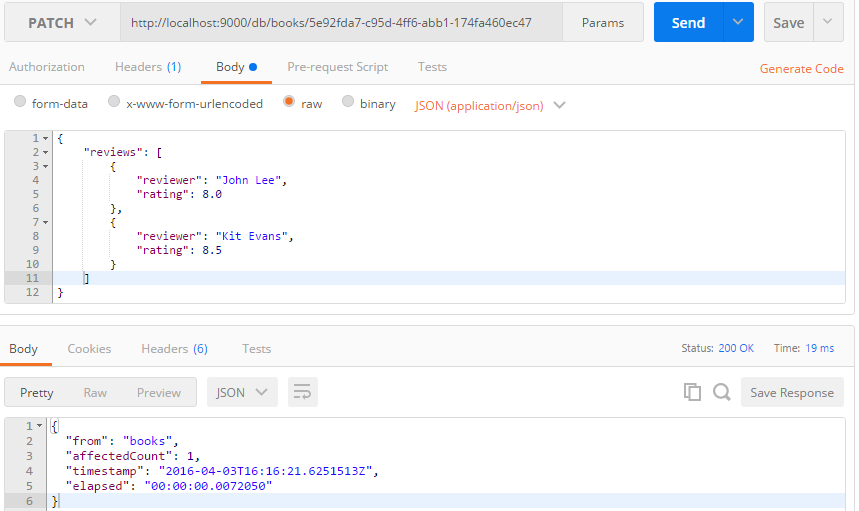
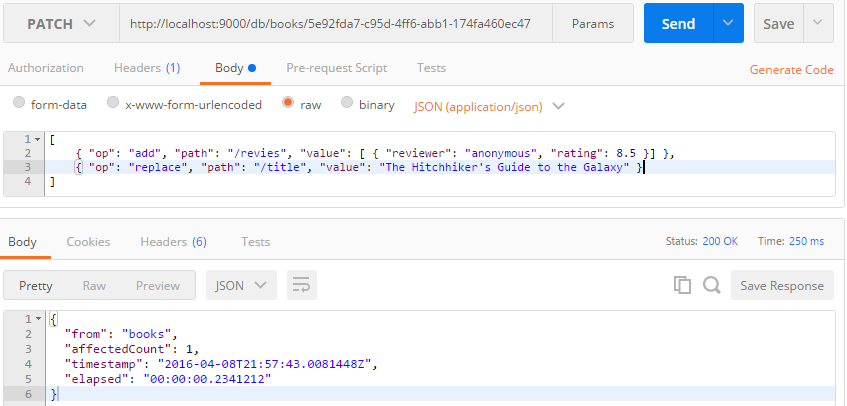
.

diff --git a/_posts/2016-01-04-rest-api.md b/_posts/2016-01-04-rest-api.md
@@ -7,13 +7,14 @@ fa-icon: codepen
 
 # **it's got an easy to use REST API**
 
-- To insert new JSON Content (i.e. Document), use the `POST /db/{collection}` endpoint. ExpandoDB will auto-create the target Content Collection if it doesn't exist.  
+- To insert new Content (i.e. Document), use the `POST /db/{collection}` endpoint. ExpandoDB will auto-create the target Content Collection if it doesn't exist.  
   ![Post Spec](img/post-spec.png)
 - To find out about the schema of a specific Content Collection, use the `GET /db/_schemas/{collection}` endpoint.  
   ![Get Schema](img/get-schema.PNG)
 - To find out what Content Collections are in the Database and what their schemas are, use the `GET /db/_schemas` endpoint.
   ![Get Schemas](img/get-schemas.png)    
-- To search a Content Collection, use the `GET /db/{collection}` endpoint.  
+- To search a Content Collection, use the `GET /db/{collection}` endpoint. This is the API endpoint you'll be using the most,
+  so do take time to read the documentation below.
   ![Search Collection](img/search-collection.png)
 - To count items in a Content Collection, use the `GET /db/{collection}/count` endpoint.  
   ![Get Collection Count](img/get-collection-count.png)
@@ -22,11 +23,11 @@ fa-icon: codepen
 - To update an existing JSON Content, use the `PUT /db/{collection}/{id}` endpoint. The JSON Content that you send will 
   replace the existing one.
   ![Put Content](img/put-collection.png)
-- To partially update an existing JSON Content, use the `PATCH /db/{collection}/{id}` endpoint. This endpoint implements
+- To partially update an existing Content, use the `PATCH /db/{collection}/{id}` endpoint. This endpoint implements
   the **JSON-Patch** standard defined in [**RFC6902**](https://tools.ietf.org/html/rfc6902). Note that ExpandoDB only supports
   the following **PATCH** operations: **add**, **remove**, and **replace**.
   ![Patch Content](img/patch-collection.png)  
-- To remove an existing JSON Content, use the `DELETE /db/{collection}/{id}` endpoint.
+- To remove an existing Content, use the `DELETE /db/{collection}/{id}` endpoint.
   ![Delete Content](img/delete-collection.png) 
 - To remove an entire Content Collection, use the `DELETE /db/{collection}` endpoint.
   ![Drop Collection](img/drop-collection.png) 

diff --git a/_posts/2016-01-05-show-me.md b/_posts/2016-01-05-show-me.md
@@ -37,6 +37,7 @@ fa-icon: list-ol
   supported is 2 (the default).
   ![Howto Search Fuzzy](img/howto-search-4.png) 
 - Finally let's search for news articles with no title. ExpandoDB uses a special token to denote missing (i.e. null) values: **\_null\_**. 
+  The token can be modified in the application config file.
   ![Howto Search Null](img/howto-search-5.png)
 - See [this article](http://www.lucenetutorial.com/lucene-query-syntax.html) to learn more about the query syntax.  
   
@@ -46,6 +47,11 @@ fa-icon: list-ol
   ![Howto Update Replace](img/howto-update-1.png)
 - Let's check if the book was updated.
   ![Howto Update Replace - Result](img/howto-update-2.png)
+- Now let's make a few changes to our book Content. Let's add a new array field called **reviews**. In addition, let's update
+  the **title** field and remove the word UPDATED from it. We do both of these modifications using the PATCH API.
+  ![Howto Update Patch](img/howto-update-3.png)
+- Let's see if the book was updated.
+  ![Howto Update Patch - Result](img/howto-update-4.png)
   
 {: .left}
 ### **...delete existing Content?**
@@ -64,5 +70,18 @@ fa-icon: list-ol
 
 {: .left}
 ### **...see what Content Collections are available in the Database, and what their fields are?** 
-- Simply send a GET request to the **/db/_schemas** endpoint.
+- Simply send a GET request to the **/db/_schemas** endpoint. 
   ![Howto Get Schema](img/howto-get-schema.png)
+- You will notice that ExpandoDB creates additional fields:
+  * **_id** is the unique identifier for the Content 
+  * **_createdTimestamp** is the date/time (UTC) the Content was created
+  * **_modifiedTimestamp** is the date/time (UTC) the Content was last modified 
+  * **_full_text** is the full-text representation of the Content (i.e. concatenation of all the fields of the Content).
+   
+-----
+
+At this point, we can now work with the full Reuters-21578 dataset.
+ 
+- Drop the **reuters** Collection.
+- Go to the `Loader\reuters` directory and extract the contents of **reuters21578.tar.gz** to the same directory.
+- Run `Loader.exe` to load the contents of all the files (this will take a few minutes to complete).

diff --git a/_posts/2016-01-02-features.md b/_posts/2016-01-02-features.md
@@ -13,15 +13,15 @@ Well, as it says on the tin, ExpandoDB is a JSON document database.
   emails, PDF files, MS-Office files, etc., or data imported from other databases.
 - More importantly, it is meant to enable **super-fast search** of the stored data. 
   ExpandoDB's search engine is powered by [**Lucene**](https://lucene.apache.org), the 
-  de facto standard for search engines. What's nice about ExpandoDB is that unlike other Lucene-based 
-  search engines, you don't need to define Lucene index schemas. ExpandoDB will auto-generate 
+  de facto standard for search engines. Unlike other Lucene-based search engines, 
+  ExpandoDB doesn't require you to create Lucene index schemas - it auto-generates 
   the schemas for you!
 - It supports a full range of query operations: keyword search, range search, wildcard search, regex search, 
-  proximity search, fuzzy search, etc. See [this article for an overview of the query syntax](http://www.lucenetutorial.com/lucene-query-syntax.html).  
+  proximity search, fuzzy search, etc. See [this article for an overview of Lucene query syntax](http://www.lucenetutorial.com/lucene-query-syntax.html).  
 - It highlights the part of the text that contains the search term(s). 
 - It is easy to setup - you can download and install it in under 5 minutes! It's packaged as a self-contained microservice, 
-  so it doesn't have any dependencies other than the .NET runtime v4.5.  
+  so it doesn't have any dependencies other than the **.NET runtime v4.5**.  
 - It has an easy-to-use [REST API](#rest-api), and it comes bundled with a [Swagger](http://swagger.io) API spec and viewer.
 - It's open-source, released under the [**Apache v2 license**](http://www.apache.org/licenses).
 
-Sound good? Why not [download](#download) and try it out!
+Sounds good? Why not [download](#download) and try it out!

diff --git a/_posts/2016-01-06-code.md b/_posts/2016-01-06-code.md
@@ -17,4 +17,4 @@ fa-icon: code-fork
   * [NancyFx](https://github.com/NancyFx/Nancy)
   * [TopShelf](https://github.com/Topshelf/Topshelf)
   * [log4net](https://logging.apache.org/log4net) and [Common Logging](https://github.com/net-commons/common-logging)
-- It's a work in progress - contributors are welcome!
+- Contributors are welcome!
